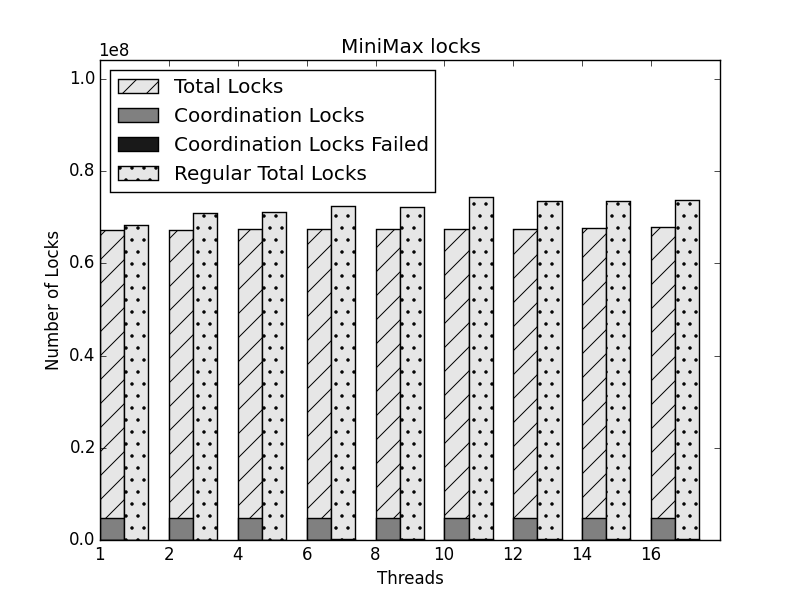
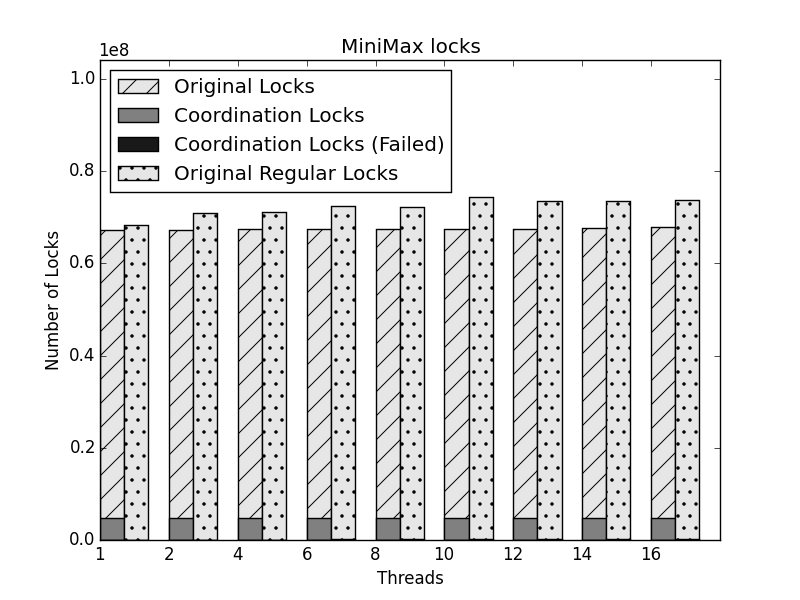
Change legend.

Changed region(s): [[0.2188, 0.12, 0.5938, 0.33], [0.2188, 0.12, 0.4062, 0.18]]

diff --git a/results/locks/plot.py b/results/locks/plot.py
@@ -143,5 +143,5 @@ pfailreg = ax.bar(ind + width, reg_exp.get_fail_locks(), width, color=cmap(0.5))
 ax.set_ylim([0, max([max(reg_exp.get_total_locks()), max(coord_exp.get_total_locks())])*1.4])
 ax.set_xticks(ind)
 ax.set_xticklabels(('1', '2', '4', '6', '8', '10', '12', '14', '16'))
-ax.legend((ptotal, pcoord, pfail, ptotalreg), ('Total Locks', 'Coordination Locks', 'Coordination Locks Failed', 'Regular Total Locks'), loc=2)
+ax.legend((ptotal, pcoord, pfail, ptotalreg), ('Original Locks', 'Coordination Locks', 'Coordination Locks (Failed)', 'Original Regular Locks'), loc=2)
 plt.savefig(output_file)
